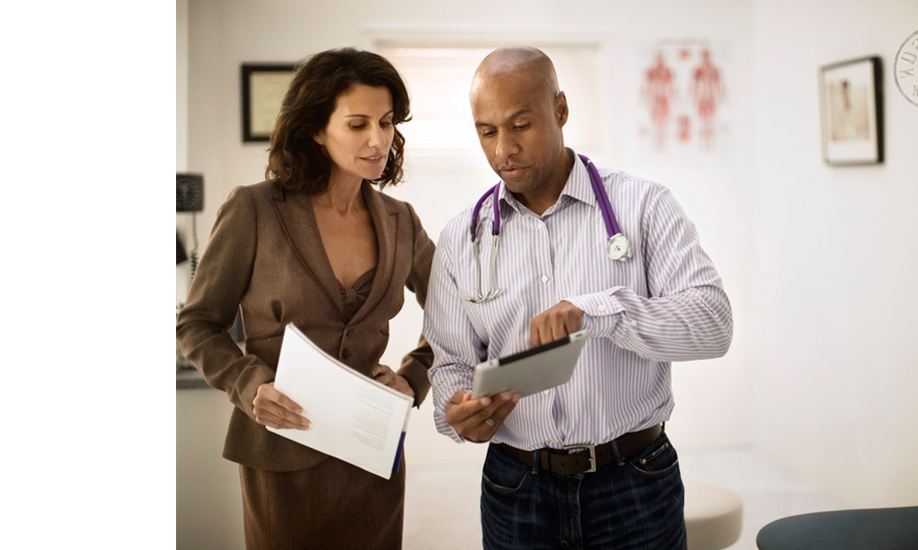
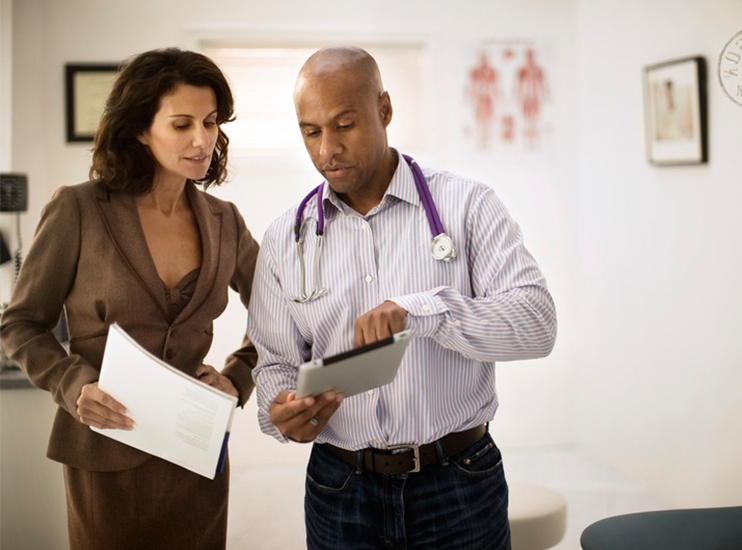
Homepage slider image issue fixed.

diff --git a/wp-content/themes/Divi-child/js/custom.js b/wp-content/themes/Divi-child/js/custom.js
@@ -1,10 +1,11 @@
 $=jQuery;
 
-var vph = $(window).width();
+
 function home_slide_img_width() {
-	if($(window).width() <= 991) {
-		$('.elem-large-hover .lh-background').css({'width':vph+'px'})
-	}
+	var vph = $(window).width();
+	//if($(window).width() <= 991) {
+		$('.elem-large-hover .lh-background').css({'width':2*vph/3+'px'})
+	//}
 }
 
 $(document).ready(function() {
@@ -46,7 +47,7 @@ $(document).ready(function() {
 	$('.list-news article').addClass('clearfix');
 });
 $(window).resize(function() {
-	console.log(vph);
+	//console.log(vph);
 	home_slide_img_width();
 });
 

diff --git a/wp-content/themes/Divi-child/css/custom.css b/wp-content/themes/Divi-child/css/custom.css
@@ -1130,8 +1130,9 @@ a:hover,
 }
 
 .elem-large-hover .lh-background {
-    width: 1000px;
-    left: -300px;
+    background-position: 0 0;
+    /* width: 2000px; */
+    left: -190px;
 }
 .large-hover-img.active .lh-background {
     /*left: -150px; making center on hover */
